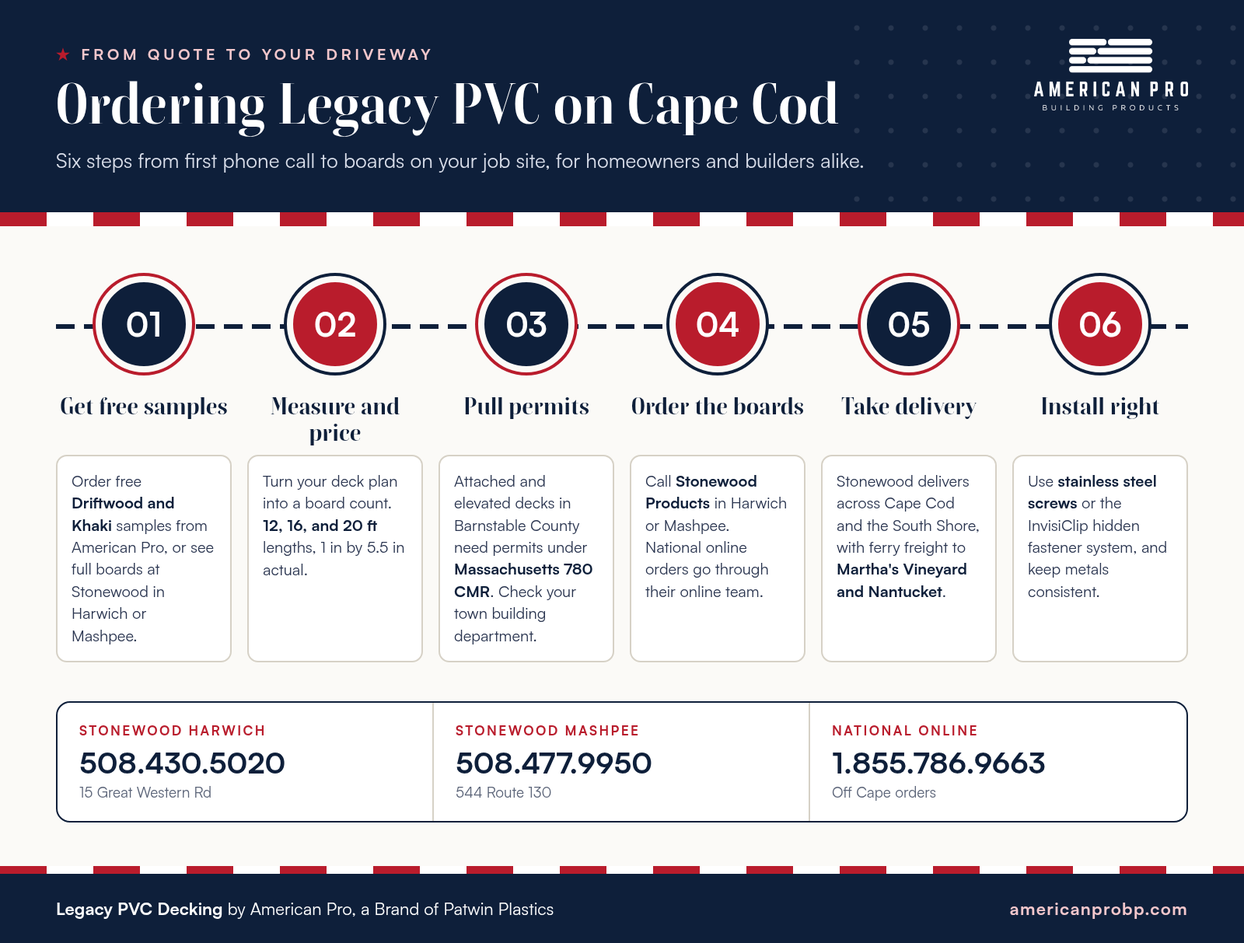
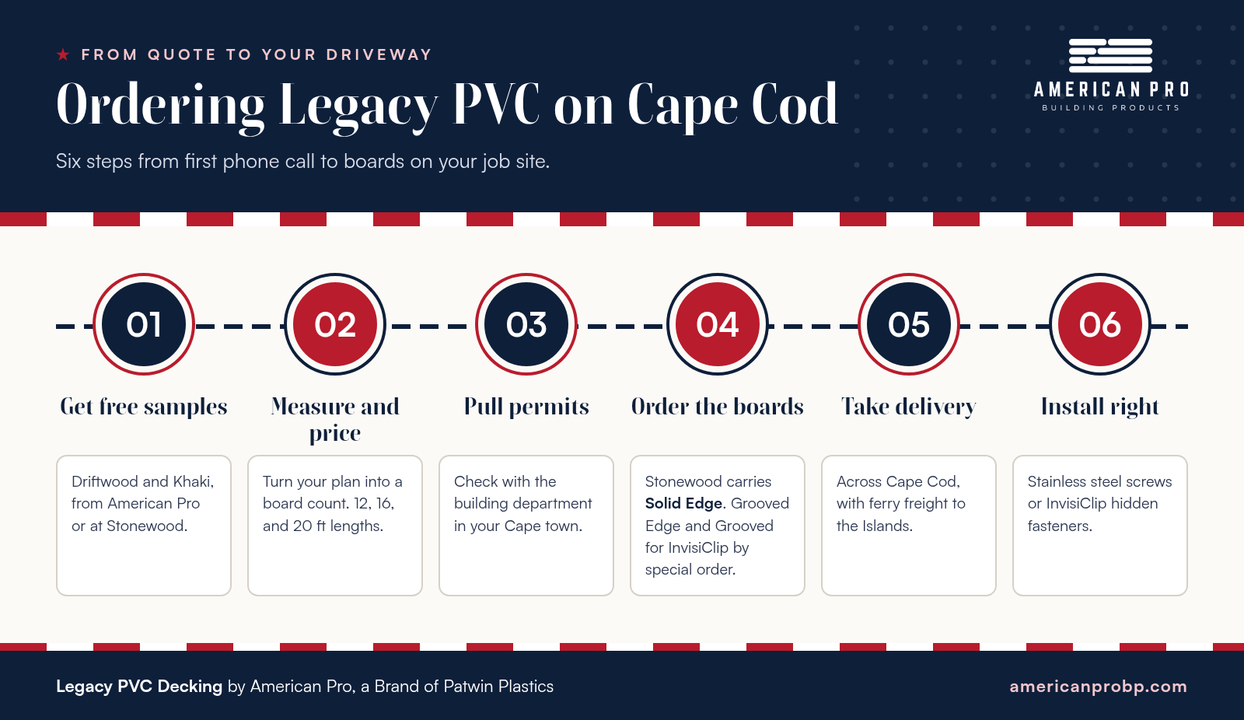
Cape Cod page: remove repeated visuals, note Stonewood carries Solid Edge with Grooved Edge and Grooved for InvisiClip by special order

Changed region(s): [[0.0, 0.2117, 1.0, 0.9676], [0.0312, 0.0302, 0.6875, 0.1814], [0.8125, 0.0302, 0.9688, 0.1512]]

diff --git a/pages/pvc-decking-cape-cod.html b/pages/pvc-decking-cape-cod.html
@@ -43,14 +43,14 @@
     <script type="application/ld+json">{"@context":"https://schema.org","@type":"Organization","@id":"https://americanprobp.com/#organization","name":"American Pro Building Products","alternateName":"American Pro","url":"https://americanprobp.com/","logo":"https://americanprobp.com/images/logo/americanpro-header.png","image":"https://americanprobp.com/images/og/og-default.jpg","description":"American-made cellular PVC decking, porch flooring, and architectural mouldings, manufactured by Patwin Plastics in Linden, NJ since 1971.","telephone":"+1-877-442-6776","email":"sales@americanprobp.com","foundingDate":"2001","parentOrganization":{"@type":"Organization","@id":"https://americanprobp.com/#patwin","name":"Patwin Plastics, Inc.","foundingDate":"1971","url":"https://americanprobp.com/pages/about.html"},"address":{"@type":"PostalAddress","streetAddress":"2300 E Linden Avenue","addressLocality":"Linden","addressRegion":"NJ","postalCode":"07036","addressCountry":"US"},"sameAs":["https://truegraindeck.com"]}</script>
 
     <!-- Breadcrumb -->
-    <script type="application/ld+json">{"@context":"https://schema.org","@type":"WebPage","@id":"https://americanprobp.com/pages/pvc-decking-cape-cod.html#webpage","url":"https://americanprobp.com/pages/pvc-decking-cape-cod.html","name":"Best PVC Decking Cape Cod | Legacy PVC at Stonewood, Harwich & Mashpee","inLanguage":"en-US","isPartOf":{"@type":"WebSite","url":"https://americanprobp.com/"},"publisher":{"@id":"https://americanprobp.com/#organization"},"primaryImageOfPage":{"@type":"ImageObject","contentUrl":"https://americanprobp.com/images/capecod/legacy-pvc-decking-driftwood-cape-cod-shingle-home-dunes.jpg","url":"https://americanprobp.com/images/capecod/legacy-pvc-decking-driftwood-cape-cod-shingle-home-dunes.jpg","width":1280,"height":720,"caption":"Legacy PVC decking in Driftwood on a cedar shingle Cape Cod home, with white Adirondack chairs, dune grass, and the ocean beyond"},"image":[{"@type":"ImageObject","contentUrl":"https://americanprobp.com/images/hero_deck.jpg","url":"https://americanprobp.com/images/hero_deck.jpg","width":1376,"height":768,"caption":"Coastal Cape Cod home with American Pro Legacy PVC decking"},{"@type":"ImageObject","contentUrl":"https://americanprobp.com/images/capecod/legacy-pvc-decking-driftwood-cape-cod-shingle-home-dunes.jpg","url":"https://americanprobp.com/images/capecod/legacy-pvc-decking-driftwood-cape-cod-shingle-home-dunes.jpg","width":1280,"height":720,"caption":"Legacy PVC decking in Driftwood on a cedar shingle Cape Cod home, with white Adirondack chairs, dune grass, and the ocean beyond"},{"@type":"ImageObject","contentUrl":"https://americanprobp.com/images/capecod/legacy-pvc-decking-khaki-cape-cod-ocean-view-deck.jpg","url":"https://americanprobp.com/images/capecod/legacy-pvc-decking-khaki-cape-cod-ocean-view-deck.jpg","width":1280,"height":720,"caption":"Legacy PVC decking in Khaki on a Cape Cod deck with white Adirondack chairs and white railing overlooking the beach"},{"@type":"ImageObject","contentUrl":"https://americanprobp.com/images/capecod/legacy-pvc-decking-cape-cod-coastal-performance-infographic.png","url":"https://americanprobp.com/images/capecod/legacy-pvc-decking-cape-cod-coastal-performance-infographic.png","width":1600,"height":1614,"caption":"Infographic: how Legacy PVC decking handles Cape Cod salt air, coastal sun, and freeze thaw winters, with board size, lengths, profiles, warranty, and the Driftwood and Khaki colors"},{"@type":"ImageObject","contentUrl":"https://americanprobp.com/images/capecod/legacy-pvc-decking-driftwood-cape-cod-salt-marsh-deck.jpg","url":"https://americanprobp.com/images/capecod/legacy-pvc-decking-driftwood-cape-cod-salt-marsh-deck.jpg","width":1280,"height":720,"caption":"Legacy PVC decking in Driftwood on a Cape Cod deck with a teak dining set and blue hydrangeas overlooking a salt marsh and harbor"},{"@type":"ImageObject","contentUrl":"https://americanprobp.com/images/capecod/legacy-pvc-decking-vs-capped-composite-cape-cod-infographic.png","url":"https://americanprobp.com/images/capecod/legacy-pvc-decking-vs-capped-composite-cape-cod-infographic.png","width":1600,"height":1836,"caption":"Comparison chart of Legacy PVC decking and capped composite for Cape Cod decks: core, moisture, mold and mildew, color, warranty, underfoot feel, and best fit"},{"@type":"ImageObject","contentUrl":"https://americanprobp.com/images/capecod/legacy-pvc-decking-cape-cod-ordering-steps-infographic.png","url":"https://americanprobp.com/images/capecod/legacy-pvc-decking-cape-cod-ordering-steps-infographic.png","width":1600,"height":1213,"caption":"Six step timeline for ordering Legacy PVC decking on Cape Cod: samples, measure, permits, order, delivery, and install, with Stonewood Products phone numbers"}]}</script>
+    <script type="application/ld+json">{"@context":"https://schema.org","@type":"WebPage","@id":"https://americanprobp.com/pages/pvc-decking-cape-cod.html#webpage","url":"https://americanprobp.com/pages/pvc-decking-cape-cod.html","name":"Best PVC Decking Cape Cod | Legacy PVC at Stonewood, Harwich & Mashpee","inLanguage":"en-US","isPartOf":{"@type":"WebSite","url":"https://americanprobp.com/"},"publisher":{"@id":"https://americanprobp.com/#organization"},"primaryImageOfPage":{"@type":"ImageObject","contentUrl":"https://americanprobp.com/images/capecod/legacy-pvc-decking-driftwood-cape-cod-shingle-home-dunes.jpg","url":"https://americanprobp.com/images/capecod/legacy-pvc-decking-driftwood-cape-cod-shingle-home-dunes.jpg","width":1280,"height":720,"caption":"Legacy PVC decking in Driftwood on a cedar shingle Cape Cod home, with white Adirondack chairs, dune grass, and the ocean beyond"},"image":[{"@type":"ImageObject","contentUrl":"https://americanprobp.com/images/hero_deck.jpg","url":"https://americanprobp.com/images/hero_deck.jpg","width":1376,"height":768,"caption":"Coastal Cape Cod home with American Pro Legacy PVC decking"},{"@type":"ImageObject","contentUrl":"https://americanprobp.com/images/capecod/legacy-pvc-decking-driftwood-cape-cod-shingle-home-dunes.jpg","url":"https://americanprobp.com/images/capecod/legacy-pvc-decking-driftwood-cape-cod-shingle-home-dunes.jpg","width":1280,"height":720,"caption":"Legacy PVC decking in Driftwood on a cedar shingle Cape Cod home, with white Adirondack chairs, dune grass, and the ocean beyond"},{"@type":"ImageObject","contentUrl":"https://americanprobp.com/images/capecod/legacy-pvc-decking-khaki-cape-cod-ocean-view-deck.jpg","url":"https://americanprobp.com/images/capecod/legacy-pvc-decking-khaki-cape-cod-ocean-view-deck.jpg","width":1280,"height":720,"caption":"Legacy PVC decking in Khaki on a Cape Cod deck with white Adirondack chairs and white railing overlooking the beach"},{"@type":"ImageObject","contentUrl":"https://americanprobp.com/images/capecod/legacy-pvc-decking-cape-cod-coastal-performance-infographic.png","url":"https://americanprobp.com/images/capecod/legacy-pvc-decking-cape-cod-coastal-performance-infographic.png","width":1600,"height":1158,"caption":"Infographic: how Legacy PVC decking handles Cape Cod salt air, direct coastal sun, freeze thaw winters, and coastal wear, with a 25 year residential warranty"},{"@type":"ImageObject","contentUrl":"https://americanprobp.com/images/capecod/legacy-pvc-decking-vs-capped-composite-cape-cod-infographic.png","url":"https://americanprobp.com/images/capecod/legacy-pvc-decking-vs-capped-composite-cape-cod-infographic.png","width":1600,"height":1606,"caption":"Comparison chart of Legacy PVC decking and capped composite for Cape Cod decks: core, moisture, mold and mildew, color, warranty, underfoot feel, and best fit"},{"@type":"ImageObject","contentUrl":"https://americanprobp.com/images/capecod/legacy-pvc-decking-cape-cod-ordering-steps-infographic.png","url":"https://americanprobp.com/images/capecod/legacy-pvc-decking-cape-cod-ordering-steps-infographic.png","width":1600,"height":926,"caption":"Six step timeline for ordering Legacy PVC decking on Cape Cod: samples, measure, permits, order, delivery, and install. Stonewood carries Solid Edge; Grooved Edge and Grooved for InvisiClip by special order"}]}</script>
     <script type="application/ld+json">{"@context":"https://schema.org","@type":"BreadcrumbList","itemListElement":[{"@type":"ListItem","position":1,"name":"Home","item":"https://americanprobp.com/"},{"@type":"ListItem","position":2,"name":"Decking","item":"https://americanprobp.com/pages/decking.html"},{"@type":"ListItem","position":3,"name":"PVC Decking on Cape Cod","item":"https://americanprobp.com/pages/pvc-decking-cape-cod.html"}]}</script>
 
     <!-- Service - regional Cape Cod supply with Stonewood as provider -->
-    <script type="application/ld+json">{"@context":"https://schema.org","@type":"Service","name":"PVC Decking Supply on Cape Cod","serviceType":"Cellular PVC decking distribution","description":"American Pro Legacy PVC decking stocked and distributed across Cape Cod through Stonewood Products, with a Harwich flagship and a Mashpee store, serving homeowners, builders, and landscapers since 1997.","url":"https://americanprobp.com/pages/pvc-decking-cape-cod.html","brand":{"@type":"Brand","name":"American Pro Building Products"},"provider":{"@type":"Organization","name":"Stonewood Products","url":"https://www.stonewoodproducts.com/","telephone":"+1-508-430-5020","email":"web@stonewoodproducts.com","foundingDate":"1997","location":[{"@type":"Place","name":"Stonewood Products - Harwich Flagship","address":{"@type":"PostalAddress","streetAddress":"15 Great Western Rd","addressLocality":"Harwich","addressRegion":"MA","postalCode":"02645","addressCountry":"US"},"telephone":"+1-508-430-5020"},{"@type":"Place","name":"Stonewood Products - Mashpee Store","address":{"@type":"PostalAddress","streetAddress":"544 Route 130","addressLocality":"Mashpee","addressRegion":"MA","postalCode":"02649","addressCountry":"US"},"telephone":"+1-508-477-9950"}]},"areaServed":[{"@type":"AdministrativeArea","name":"Cape Cod"},{"@type":"AdministrativeArea","name":"Barnstable County, Massachusetts"},{"@type":"City","name":"Harwich","containedInPlace":{"@type":"State","name":"Massachusetts"}},{"@type":"City","name":"Mashpee","containedInPlace":{"@type":"State","name":"Massachusetts"}},{"@type":"City","name":"Barnstable","containedInPlace":{"@type":"State","name":"Massachusetts"}},{"@type":"City","name":"Hyannis","containedInPlace":{"@type":"State","name":"Massachusetts"}},{"@type":"City","name":"Falmouth","containedInPlace":{"@type":"State","name":"Massachusetts"}},{"@type":"City","name":"Chatham","containedInPlace":{"@type":"State","name":"Massachusetts"}},{"@type":"City","name":"Orleans","containedInPlace":{"@type":"State","name":"Massachusetts"}},{"@type":"City","name":"Yarmouth","containedInPlace":{"@type":"State","name":"Massachusetts"}},{"@type":"City","name":"Dennis","containedInPlace":{"@type":"State","name":"Massachusetts"}},{"@type":"City","name":"Wellfleet","containedInPlace":{"@type":"State","name":"Massachusetts"}},{"@type":"City","name":"Provincetown","containedInPlace":{"@type":"State","name":"Massachusetts"}}]}</script>
+    <script type="application/ld+json">{"@context":"https://schema.org","@type":"Service","name":"PVC Decking Supply on Cape Cod","serviceType":"Cellular PVC decking distribution","description":"American Pro Legacy PVC decking stocked and distributed across Cape Cod through Stonewood Products, with a Harwich flagship and a Mashpee store, serving homeowners, builders, and landscapers since 1997. Stonewood carries the Solid Edge profile; Grooved Edge and Grooved for InvisiClip are available by special order.","url":"https://americanprobp.com/pages/pvc-decking-cape-cod.html","brand":{"@type":"Brand","name":"American Pro Building Products"},"provider":{"@type":"Organization","name":"Stonewood Products","url":"https://www.stonewoodproducts.com/","telephone":"+1-508-430-5020","email":"web@stonewoodproducts.com","foundingDate":"1997","location":[{"@type":"Place","name":"Stonewood Products - Harwich Flagship","address":{"@type":"PostalAddress","streetAddress":"15 Great Western Rd","addressLocality":"Harwich","addressRegion":"MA","postalCode":"02645","addressCountry":"US"},"telephone":"+1-508-430-5020"},{"@type":"Place","name":"Stonewood Products - Mashpee Store","address":{"@type":"PostalAddress","streetAddress":"544 Route 130","addressLocality":"Mashpee","addressRegion":"MA","postalCode":"02649","addressCountry":"US"},"telephone":"+1-508-477-9950"}]},"areaServed":[{"@type":"AdministrativeArea","name":"Cape Cod"},{"@type":"AdministrativeArea","name":"Barnstable County, Massachusetts"},{"@type":"City","name":"Harwich","containedInPlace":{"@type":"State","name":"Massachusetts"}},{"@type":"City","name":"Mashpee","containedInPlace":{"@type":"State","name":"Massachusetts"}},{"@type":"City","name":"Barnstable","containedInPlace":{"@type":"State","name":"Massachusetts"}},{"@type":"City","name":"Hyannis","containedInPlace":{"@type":"State","name":"Massachusetts"}},{"@type":"City","name":"Falmouth","containedInPlace":{"@type":"State","name":"Massachusetts"}},{"@type":"City","name":"Chatham","containedInPlace":{"@type":"State","name":"Massachusetts"}},{"@type":"City","name":"Orleans","containedInPlace":{"@type":"State","name":"Massachusetts"}},{"@type":"City","name":"Yarmouth","containedInPlace":{"@type":"State","name":"Massachusetts"}},{"@type":"City","name":"Dennis","containedInPlace":{"@type":"State","name":"Massachusetts"}},{"@type":"City","name":"Wellfleet","containedInPlace":{"@type":"State","name":"Massachusetts"}},{"@type":"City","name":"Provincetown","containedInPlace":{"@type":"State","name":"Massachusetts"}}]}</script>
 
     <!-- Regional FAQ -->
-    <script type="application/ld+json">{"@context":"https://schema.org","@type":"FAQPage","mainEntity":[{"@type":"Question","name":"Do I need a permit to build a deck on Cape Cod?","acceptedAnswer":{"@type":"Answer","text":"Yes, in most cases. Attached and elevated decks in Barnstable County require permits under Massachusetts 780 CMR (10th Edition, effective January 1, 2025). Rail height, stair geometry, load paths, ledger attachment, and flame-spread ratings fall under code review. Every Cape Cod town (Barnstable, Falmouth, Sandwich, Bourne, Mashpee, Yarmouth, Dennis, Brewster, Harwich, Chatham, Orleans, Eastham, Wellfleet, Truro, Provincetown) has its own building department. Check with the local town office where the deck lives before ordering material."}},{"@type":"Question","name":"Can Legacy PVC decking handle a Cape Cod winter?","acceptedAnswer":{"@type":"Answer","text":"Yes. Cellular PVC has near-zero moisture uptake, so freeze-thaw cycles do not swell, crack, or split the board the way they attack wood-fiber decking. Snow, ice, and calcium chloride ice melt do not damage Legacy PVC. Clear snow with a plastic-edged shovel, never a metal one, to protect the surface finish."}},{"@type":"Question","name":"How is Legacy PVC decking delivered on Cape Cod?","acceptedAnswer":{"@type":"Answer","text":"Stonewood Products delivers Legacy PVC across all Cape Cod towns from their Harwich and Mashpee yards. For Martha's Vineyard and Nantucket, they arrange ferry and Steamship Authority freight to island job sites."}},{"@type":"Question","name":"Where can I buy PVC decking on Cape Cod?","acceptedAnswer":{"@type":"Answer","text":"American Pro Legacy PVC decking is stocked on Cape Cod at Stonewood Products, with a Harwich flagship at 15 Great Western Rd (508-430-5020) and a Mashpee store at 544 Route 130 (508-477-9950). Both locations stock Legacy PVC in Driftwood and Khaki, the two most popular Cape Cod colors. Stonewood also ships nationally through their online team at 1-855-786-9663."}},{"@type":"Question","name":"Does PVC decking hold up to Cape Cod salt air?","acceptedAnswer":{"@type":"Answer","text":"Cellular PVC is one of the best decking materials for coastal Cape Cod. It has no wood fiber to rot, no wood pores for salt to work into, and no ferrous components in the board itself to corrode. American Pro Legacy PVC decking carries a 25-year residential warranty against splitting, flaking, rotting, and structural defects, and against fade beyond 5 Delta E."}},{"@type":"Question","name":"What decking brands does Stonewood Products carry on Cape Cod?","acceptedAnswer":{"@type":"Answer","text":"Stonewood Products in Harwich and Mashpee stocks American Pro Legacy PVC decking in Driftwood and Khaki, plus mahogany decking (including Red Balau), cedar decking, ipe (special order), and Fiberon PVC. Their team can help match the right board to a coastal Cape Cod project."}},{"@type":"Question","name":"Do you have a Cape Cod decking dealer in Harwich or Mashpee?","acceptedAnswer":{"@type":"Answer","text":"Yes. Stonewood Products is our authorized dealer for Cape Cod, with a Harwich flagship at 15 Great Western Rd and a Mashpee store at 544 Route 130. Both locations stock American Pro Legacy PVC decking and can quote installation-ready quantities for Cape Cod builders and homeowners."}},{"@type":"Question","name":"What's the best decking material for a Cape Cod home?","acceptedAnswer":{"@type":"Answer","text":"For coastal Cape Cod homes, cellular PVC decking is a top pick because salt air, sun, and moisture cycle through the boards for months at a time. American Pro Legacy PVC decking is solid-color cellular PVC with an embossed wood-grain texture, a UV-stabilized formulation, and a 25-year residential warranty, engineered for exactly this environment."}},{"@type":"Question","name":"What is the best PVC decking for Cape Cod?","acceptedAnswer":{"@type":"Answer","text":"The best PVC decking for Cape Cod is solid cellular PVC with zero wood fiber, a UV-stabilized cap, and a long fade and structural warranty, since salt air, direct sun, and freeze-thaw winters punish anything less. American Pro Legacy PVC decking meets all three: a solid cellular PVC core with no organic fiber for salt to attack, a UV-stabilized cap rated to stay within 5 Delta E of its original color, and a 25-year residential warranty against splitting, flaking, and rotting. It's stocked locally at Stonewood Products in Harwich and Mashpee, so you can see and buy a board without an off-Cape special order."}},{"@type":"Question","name":"Can I get PVC decking on Martha's Vineyard or Nantucket?","acceptedAnswer":{"@type":"Answer","text":"Yes. Stonewood Products on Cape Cod supplies contractors and homeowners on Martha's Vineyard and Nantucket through their Mashpee and Harwich stores, with freight and ferry-friendly loads. Ask their team about scheduling deliveries for island jobs."}}]}</script>
+    <script type="application/ld+json">{"@context":"https://schema.org","@type":"FAQPage","mainEntity":[{"@type":"Question","name":"Do I need a permit to build a deck on Cape Cod?","acceptedAnswer":{"@type":"Answer","text":"Yes, in most cases. Attached and elevated decks in Barnstable County require permits under Massachusetts 780 CMR (10th Edition, effective January 1, 2025). Rail height, stair geometry, load paths, ledger attachment, and flame-spread ratings fall under code review. Every Cape Cod town (Barnstable, Falmouth, Sandwich, Bourne, Mashpee, Yarmouth, Dennis, Brewster, Harwich, Chatham, Orleans, Eastham, Wellfleet, Truro, Provincetown) has its own building department. Check with the local town office where the deck lives before ordering material."}},{"@type":"Question","name":"Can Legacy PVC decking handle a Cape Cod winter?","acceptedAnswer":{"@type":"Answer","text":"Yes. Cellular PVC has near-zero moisture uptake, so freeze-thaw cycles do not swell, crack, or split the board the way they attack wood-fiber decking. Snow, ice, and calcium chloride ice melt do not damage Legacy PVC. Clear snow with a plastic-edged shovel, never a metal one, to protect the surface finish."}},{"@type":"Question","name":"How is Legacy PVC decking delivered on Cape Cod?","acceptedAnswer":{"@type":"Answer","text":"Stonewood Products delivers Legacy PVC across all Cape Cod towns from their Harwich and Mashpee yards. For Martha's Vineyard and Nantucket, they arrange ferry and Steamship Authority freight to island job sites."}},{"@type":"Question","name":"Where can I buy PVC decking on Cape Cod?","acceptedAnswer":{"@type":"Answer","text":"American Pro Legacy PVC decking is stocked on Cape Cod at Stonewood Products, with a Harwich flagship at 15 Great Western Rd (508-430-5020) and a Mashpee store at 544 Route 130 (508-477-9950). Both locations stock Legacy PVC in Driftwood and Khaki, the two most popular Cape Cod colors. Stonewood carries the Solid Edge profile; Grooved Edge and Grooved for InvisiClip are available by special order. Stonewood also ships nationally through their online team at 1-855-786-9663."}},{"@type":"Question","name":"Does PVC decking hold up to Cape Cod salt air?","acceptedAnswer":{"@type":"Answer","text":"Cellular PVC is one of the best decking materials for coastal Cape Cod. It has no wood fiber to rot, no wood pores for salt to work into, and no ferrous components in the board itself to corrode. American Pro Legacy PVC decking carries a 25-year residential warranty against splitting, flaking, rotting, and structural defects, and against fade beyond 5 Delta E."}},{"@type":"Question","name":"What decking brands does Stonewood Products carry on Cape Cod?","acceptedAnswer":{"@type":"Answer","text":"Stonewood Products in Harwich and Mashpee stocks American Pro Legacy PVC decking in Driftwood and Khaki (Solid Edge profile; Grooved Edge and Grooved for InvisiClip by special order), plus mahogany decking (including Red Balau), cedar decking, ipe (special order), and Fiberon PVC. Their team can help match the right board to a coastal Cape Cod project."}},{"@type":"Question","name":"Do you have a Cape Cod decking dealer in Harwich or Mashpee?","acceptedAnswer":{"@type":"Answer","text":"Yes. Stonewood Products is our authorized dealer for Cape Cod, with a Harwich flagship at 15 Great Western Rd and a Mashpee store at 544 Route 130. Both locations stock American Pro Legacy PVC decking and can quote installation-ready quantities for Cape Cod builders and homeowners. Stonewood carries the Solid Edge profile; Grooved Edge and Grooved for InvisiClip are available by special order."}},{"@type":"Question","name":"What's the best decking material for a Cape Cod home?","acceptedAnswer":{"@type":"Answer","text":"For coastal Cape Cod homes, cellular PVC decking is a top pick because salt air, sun, and moisture cycle through the boards for months at a time. American Pro Legacy PVC decking is solid-color cellular PVC with an embossed wood-grain texture, a UV-stabilized formulation, and a 25-year residential warranty, engineered for exactly this environment."}},{"@type":"Question","name":"What is the best PVC decking for Cape Cod?","acceptedAnswer":{"@type":"Answer","text":"The best PVC decking for Cape Cod is solid cellular PVC with zero wood fiber, a UV-stabilized cap, and a long fade and structural warranty, since salt air, direct sun, and freeze-thaw winters punish anything less. American Pro Legacy PVC decking meets all three: a solid cellular PVC core with no organic fiber for salt to attack, a UV-stabilized cap rated to stay within 5 Delta E of its original color, and a 25-year residential warranty against splitting, flaking, and rotting. It's stocked locally at Stonewood Products in Harwich and Mashpee, so you can see and buy a board without an off-Cape special order. Stonewood carries the Solid Edge profile; Grooved Edge and Grooved for InvisiClip are available by special order."}},{"@type":"Question","name":"Can I get PVC decking on Martha's Vineyard or Nantucket?","acceptedAnswer":{"@type":"Answer","text":"Yes. Stonewood Products on Cape Cod supplies contractors and homeowners on Martha's Vineyard and Nantucket through their Mashpee and Harwich stores, with freight and ferry-friendly loads. Ask their team about scheduling deliveries for island jobs."}}]}</script>
 
     <link rel="preconnect" href="https://api.fontshare.com" />
     <link rel="preconnect" href="https://cdn.fontshare.com" crossorigin />
@@ -293,7 +293,7 @@
             <div class="material">
               <h3>4. Stocked close to the job, not special-ordered</h3>
               <p>The best PVC decking for Cape Cod is also the one you can actually see and buy without a multi-week off-Cape order. Local stock means faster delivery and a board you can put your hand on before you commit.</p>
-              <p class="verdict">Legacy PVC: stocked in Driftwood and Khaki at Stonewood Products' Harwich and Mashpee stores.</p>
+              <p class="verdict">Legacy PVC: stocked in Driftwood and Khaki at Stonewood Products' Harwich and Mashpee stores. Stonewood carries the Solid Edge profile; Grooved Edge and Grooved for InvisiClip are available by special order.</p>
             </div>
           </div>
 
@@ -380,7 +380,7 @@
               <span class="benefit-num">04</span>
               <div>
                 <h3>Stocked close to the job</h3>
-                <p>No barge from off-Cape. Stonewood Products stocks American Pro Legacy PVC decking at both the Harwich flagship and the Mashpee store, plus national online shipping for off-Cape contractors.</p>
+                <p>No barge from off-Cape. Stonewood Products stocks American Pro Legacy PVC decking in the Solid Edge profile at both the Harwich flagship and the Mashpee store, plus national online shipping for off-Cape contractors.</p>
               </div>
             </div>
           </div>
@@ -388,7 +388,7 @@
           <figure class="cc-figure cc-info">
             <picture>
               <source srcset="../images/capecod/legacy-pvc-decking-cape-cod-coastal-performance-infographic.webp" type="image/webp" />
-              <img src="../images/capecod/legacy-pvc-decking-cape-cod-coastal-performance-infographic.png" width="1600" height="1614" loading="lazy" decoding="async" alt="Infographic: how Legacy PVC decking handles Cape Cod salt air, coastal sun, and freeze thaw winters, with board size, lengths, profiles, warranty, and the Driftwood and Khaki colors" />
+              <img src="../images/capecod/legacy-pvc-decking-cape-cod-coastal-performance-infographic.png" width="1600" height="1158" loading="lazy" decoding="async" alt="Infographic: how Legacy PVC decking handles Cape Cod salt air, direct coastal sun, freeze thaw winters, and coastal wear, with a 25 year residential warranty" />
             </picture>
           </figure>
 
@@ -420,17 +420,9 @@
             <div class="spec"><strong>1 in &times; 5.5 in</strong><span>Actual Board Size</span></div>
             <div class="spec"><strong>12, 16, 20 ft</strong><span>Standard Lengths</span></div>
             <div class="spec"><strong>2 in stock</strong><span>Driftwood + Khaki at Stonewood</span></div>
-            <div class="spec"><strong>3 Profiles</strong><span><a href="./decking-profiles.html">Solid, Grooved, InvisiClip</a></span></div>
+            <div class="spec"><strong>Solid Edge</strong><span>At Stonewood. <a href="./decking-profiles.html">Grooved Edge and Grooved for InvisiClip</a> by special order</span></div>
             <div class="spec"><strong>25 / 10 yr</strong><span>Residential / Commercial Warranty</span></div>
           </div>
-
-          <figure class="cc-figure cc-photo">
-            <picture>
-              <source srcset="../images/capecod/legacy-pvc-decking-driftwood-cape-cod-salt-marsh-deck.webp" type="image/webp" />
-              <img src="../images/capecod/legacy-pvc-decking-driftwood-cape-cod-salt-marsh-deck.jpg" width="1280" height="720" loading="lazy" decoding="async" alt="Legacy PVC decking in Driftwood on a Cape Cod deck with a teak dining set and blue hydrangeas overlooking a salt marsh and harbor" />
-            </picture>
-            <figcaption>Shown in Driftwood</figcaption>
-          </figure>
         </div>
       </section>
 
@@ -458,7 +450,9 @@
                   homeowners, builders, and landscapers across Cape Cod and
                   Southeastern Massachusetts since 1997. Stocks American Pro
                   Legacy PVC decking at both stores, with national online
-                  fulfillment for off-Cape jobs.
+                  fulfillment for off-Cape jobs. Carries the Solid Edge
+                  profile; Grooved Edge and Grooved for InvisiClip are
+                  available by special order.
                 </p>
               </div>
               <div class="porch-dist-branches">
@@ -555,7 +549,7 @@
           <figure class="cc-figure cc-info">
             <picture>
               <source srcset="../images/capecod/legacy-pvc-decking-vs-capped-composite-cape-cod-infographic.webp" type="image/webp" />
-              <img src="../images/capecod/legacy-pvc-decking-vs-capped-composite-cape-cod-infographic.png" width="1600" height="1836" loading="lazy" decoding="async" alt="Comparison chart of Legacy PVC decking and capped composite for Cape Cod decks: core, moisture, mold and mildew, color, warranty, underfoot feel, and best fit" />
+              <img src="../images/capecod/legacy-pvc-decking-vs-capped-composite-cape-cod-infographic.png" width="1600" height="1606" loading="lazy" decoding="async" alt="Comparison chart of Legacy PVC decking and capped composite for Cape Cod decks: core, moisture, mold and mildew, color, warranty, underfoot feel, and best fit" />
             </picture>
           </figure>
 
@@ -625,6 +619,13 @@
             </p>
           </header>
 
+          <figure class="cc-figure cc-info">
+            <picture>
+              <source srcset="../images/capecod/legacy-pvc-decking-cape-cod-ordering-steps-infographic.webp" type="image/webp" />
+              <img src="../images/capecod/legacy-pvc-decking-cape-cod-ordering-steps-infographic.png" width="1600" height="926" loading="lazy" decoding="async" alt="Six step timeline for ordering Legacy PVC decking on Cape Cod: samples, measure, permits, order, delivery, and install. Stonewood carries Solid Edge; Grooved Edge and Grooved for InvisiClip by special order" />
+            </picture>
+          </figure>
+
           <ol class="how-list" data-reveal>
             <li>
               <span class="how-num">01</span>
@@ -637,7 +638,7 @@
               <span class="how-num">02</span>
               <div>
                 <h3>Measure and price the job.</h3>
-                <p>Your builder or Stonewood's team can convert your deck plan into a board count. Legacy PVC comes in 12, 16, and 20 ft lengths. Standard board is 1 in by 5.5 in actual, in <a href="./decking-profiles.html">Solid Edge, Grooved Edge, or Grooved for InvisiClip</a> profiles.</p>
+                <p>Your builder or Stonewood's team can convert your deck plan into a board count. Legacy PVC comes in 12, 16, and 20 ft lengths. Standard board is 1 in by 5.5 in actual, in <a href="./decking-profiles.html">Solid Edge, Grooved Edge, or Grooved for InvisiClip</a> profiles. Stonewood carries the Solid Edge profile; Grooved Edge and Grooved for InvisiClip are available by special order.</p>
               </div>
             </li>
             <li>
@@ -651,7 +652,7 @@
               <span class="how-num">04</span>
               <div>
                 <h3>Order the boards.</h3>
-                <p>Call Stonewood Harwich at <a href="tel:15084305020">508-430-5020</a> or Mashpee at <a href="tel:15084779950">508-477-9950</a>. They stock Driftwood and Khaki in inventory. National online orders go through <a href="tel:18557869663">1-855-786-9663</a>.</p>
+                <p>Call Stonewood Harwich at <a href="tel:15084305020">508-430-5020</a> or Mashpee at <a href="tel:15084779950">508-477-9950</a>. They stock Driftwood and Khaki in inventory. Stonewood carries the Solid Edge profile; Grooved Edge and Grooved for InvisiClip are available by special order. National online orders go through <a href="tel:18557869663">1-855-786-9663</a>.</p>
               </div>
             </li>
             <li>
@@ -665,17 +666,10 @@
               <span class="how-num">06</span>
               <div>
                 <h3>Install with proper hardware.</h3>
-                <p>Cape Cod's salt air is hard on fasteners. Use stainless-steel screws or the <a href="./invisiclip.html">InvisiClip hidden fastener system</a> built for the Grooved for InvisiClip deck board profile. Keep metals consistent to reduce galvanic corrosion. Follow board-gap and joist-spacing recommendations for coastal installs.</p>
+                <p>Cape Cod's salt air is hard on fasteners. Use stainless-steel screws or the <a href="./invisiclip.html">InvisiClip hidden fastener system</a> built for the Grooved for InvisiClip deck board profile, available by special order through Stonewood. Keep metals consistent to reduce galvanic corrosion. Follow board-gap and joist-spacing recommendations for coastal installs.</p>
               </div>
             </li>
           </ol>
-
-          <figure class="cc-figure cc-info">
-            <picture>
-              <source srcset="../images/capecod/legacy-pvc-decking-cape-cod-ordering-steps-infographic.webp" type="image/webp" />
-              <img src="../images/capecod/legacy-pvc-decking-cape-cod-ordering-steps-infographic.png" width="1600" height="1213" loading="lazy" decoding="async" alt="Six step timeline for ordering Legacy PVC decking on Cape Cod: samples, measure, permits, order, delivery, and install, with Stonewood Products phone numbers" />
-            </picture>
-          </figure>
         </div>
       </section>
 
@@ -695,11 +689,11 @@
           <div class="porch-faq" data-reveal>
             <details open>
               <summary>What is the best PVC decking for Cape Cod?</summary>
-              <p>The best PVC decking for Cape Cod is solid cellular PVC with zero wood fiber, a UV-stabilized cap, and a long fade and structural warranty, since salt air, direct sun, and freeze-thaw winters punish anything less. American Pro Legacy PVC decking meets all three: a solid cellular PVC core with no organic fiber for salt to attack, a UV-stabilized cap rated to stay within 5 Delta E of its original color, and a 25-year residential warranty against splitting, flaking, and rotting. It's stocked locally at Stonewood Products in Harwich and Mashpee, so you can see and buy a board without an off-Cape special order.</p>
+              <p>The best PVC decking for Cape Cod is solid cellular PVC with zero wood fiber, a UV-stabilized cap, and a long fade and structural warranty, since salt air, direct sun, and freeze-thaw winters punish anything less. American Pro Legacy PVC decking meets all three: a solid cellular PVC core with no organic fiber for salt to attack, a UV-stabilized cap rated to stay within 5 Delta E of its original color, and a 25-year residential warranty against splitting, flaking, and rotting. It's stocked locally at Stonewood Products in Harwich and Mashpee, so you can see and buy a board without an off-Cape special order. Stonewood carries the Solid Edge profile; Grooved Edge and Grooved for InvisiClip are available by special order.</p>
             </details>
             <details>
               <summary>Where can I buy PVC decking on Cape Cod?</summary>
-              <p>American Pro Legacy PVC decking is stocked on Cape Cod at Stonewood Products, with a Harwich flagship at 15 Great Western Rd (508-430-5020) and a Mashpee store at 544 Route 130 (508-477-9950). Both locations stock Legacy PVC in Driftwood and Khaki, the two most popular Cape Cod colors. Stonewood also ships nationally through their online team at 1-855-786-9663.</p>
+              <p>American Pro Legacy PVC decking is stocked on Cape Cod at Stonewood Products, with a Harwich flagship at 15 Great Western Rd (508-430-5020) and a Mashpee store at 544 Route 130 (508-477-9950). Both locations stock Legacy PVC in Driftwood and Khaki, the two most popular Cape Cod colors. Stonewood carries the Solid Edge profile; Grooved Edge and Grooved for InvisiClip are available by special order. Stonewood also ships nationally through their online team at 1-855-786-9663.</p>
             </details>
             <details>
               <summary>Does PVC decking hold up to Cape Cod salt air?</summary>
@@ -707,11 +701,11 @@
             </details>
             <details>
               <summary>What decking brands does Stonewood Products carry on Cape Cod?</summary>
-              <p>Stonewood Products in Harwich and Mashpee stocks American Pro Legacy PVC decking in Driftwood and Khaki, plus mahogany decking (including Red Balau), cedar decking, ipe (special order), and Fiberon PVC. Their team can help match the right board to a coastal Cape Cod project.</p>
+              <p>Stonewood Products in Harwich and Mashpee stocks American Pro Legacy PVC decking in Driftwood and Khaki (Solid Edge profile; Grooved Edge and Grooved for InvisiClip by special order), plus mahogany decking (including Red Balau), cedar decking, ipe (special order), and Fiberon PVC. Their team can help match the right board to a coastal Cape Cod project.</p>
             </details>
             <details>
               <summary>Do you have a Cape Cod decking dealer in Harwich or Mashpee?</summary>
-              <p>Yes. <a href="./dealers/stonewood-products.html">Stonewood Products</a> is our authorized dealer for Cape Cod, with a Harwich flagship at 15 Great Western Rd and a Mashpee store at 544 Route 130. Both locations stock American Pro Legacy PVC decking and can quote installation-ready quantities for Cape Cod builders and homeowners.</p>
+              <p>Yes. <a href="./dealers/stonewood-products.html">Stonewood Products</a> is our authorized dealer for Cape Cod, with a Harwich flagship at 15 Great Western Rd and a Mashpee store at 544 Route 130. Both locations stock American Pro Legacy PVC decking and can quote installation-ready quantities for Cape Cod builders and homeowners. Stonewood carries the Solid Edge profile; Grooved Edge and Grooved for InvisiClip are available by special order.</p>
             </details>
             <details>
               <summary>What's the best decking material for a Cape Cod home?</summary>
